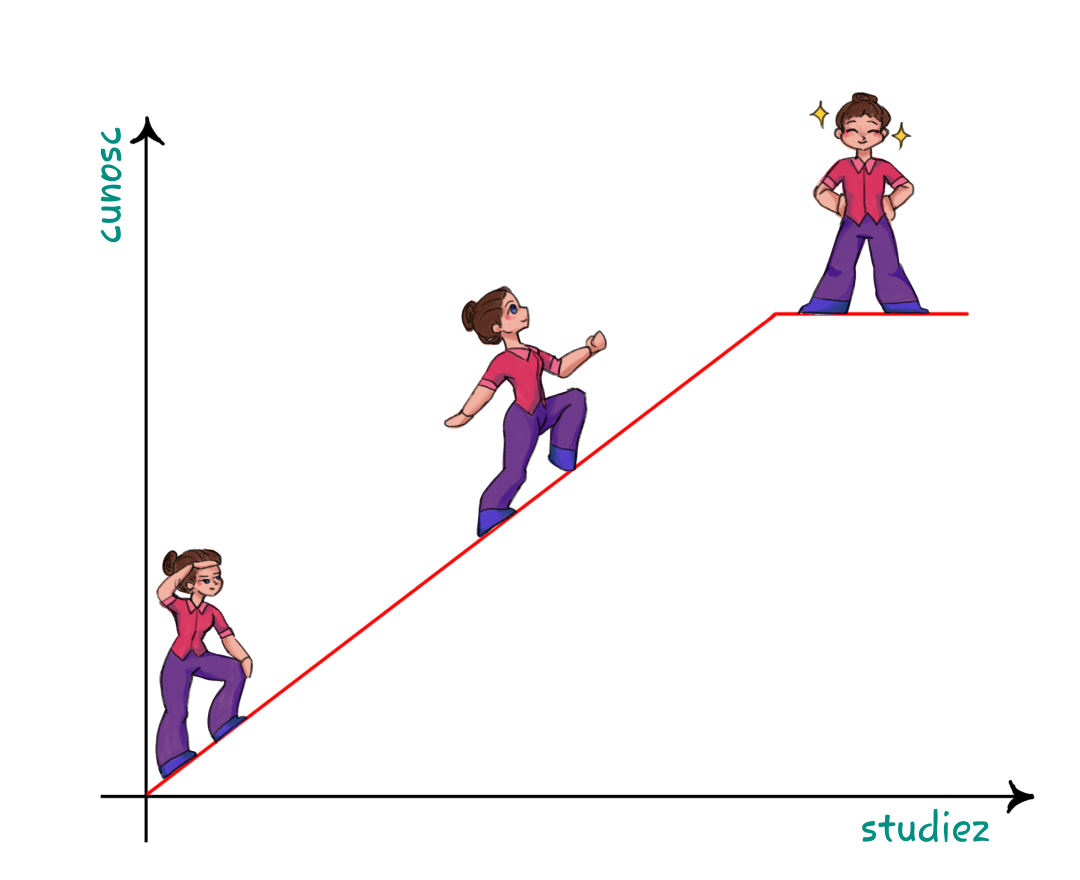
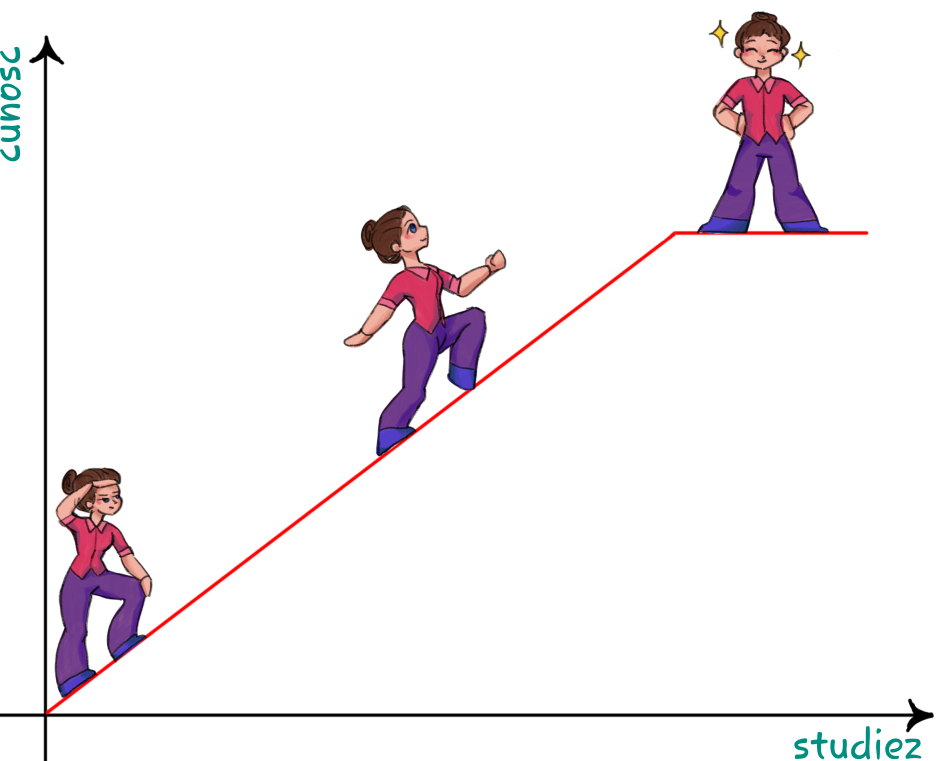
adăugat curs și pe pagina cu cursuri

diff --git a/content/ro/cursuri/_index.md b/content/ro/cursuri/_index.md
@@ -8,31 +8,44 @@ bookCollapseSection = "true"
 ![Courses](/images/courses.avif)
 
 # Cursuri personalizate
-Pentru cazurile când pur și simplu vrei să știi mai multe, îți oferim cursuri 
-adaptate cerințelor și nivelului tău de pregătire, pe care le ajustăm exact așa cum 
+Pentru cazurile când pur și simplu vrei să știi mai multe, îți oferim cursuri
+adaptate cerințelor și nivelului tău de pregătire, pe care le ajustăm exact așa cum
 ai nevoie ca să înțelegi ceea ce îți dorești.
 
 ## Cum funcționează?
-Una dintre valorile importante ale activității noastre este *personalizarea*: vrem să alcătuim 
-exact cursul care ți se potrivește. Fiecare capitol va fi adaptat cerințelor, așteptărilor 
-și nivelului cursanților, iar întreaga structură se poate modifica în colaborare cu voi, 
-astfel încât fiecare cursant să învețe cât mai eficient și să (vă) puteți răspunde la cât 
+Una dintre valorile importante ale activității noastre este *personalizarea*: vrem să alcătuim
+exact cursul care ți se potrivește. Fiecare capitol va fi adaptat cerințelor, așteptărilor
+și nivelului cursanților, iar întreaga structură se poate modifica în colaborare cu voi,
+astfel încât fiecare cursant să învețe cât mai eficient și să (vă) puteți răspunde la cât
 mai multe întrebări.
 
-Programul este flexibil, iar discuțiile și colaborările sunt încurajate, 
-(aproape) obligatorii. Pentru asta, vei avea acces gratuit la un grup de 
+Programul este flexibil, iar discuțiile și colaborările sunt încurajate,
+(aproape) obligatorii. Pentru asta, vei avea acces gratuit la un grup de
 WhatsApp, unde putem continua discuțiile și distribui materiale.
 
 ---
 
 ## Portofoliul curent
-Lucrăm intensiv la cursurile pe care ți le vom oferi începând cu toamna
-lui 2026, așa că urmărește pagina aceasta ca să afli noutățile.
 
-Ne poți scrie folosind una dintre variantele de [contact]({{< ref "contact.md" >}})
-dacă ai o propunere sau întrebări.
+### Matematică desenată
+Matematica este plină de formule, teoreme și calcule, dar multe dintre
+ele poți să le înțelegi și prin imagini.
 
-![WIP](/images/wip.png#center)
+În afară de „metoda grafică” pe care ai studiat-o în clasele primare,
+ilustrațiile au multe alte roluri, care te ajută să-ți fixezi mai bine
+inclusiv noțiuni abstracte.
+
+Nu trebuie să ai talent la desen, ci doar curiozitate și vei vedea
+cum ecuații și legi complicate capătă înțelesuri clare prin imagini.
+Mai mult, îți vei dezvolta și gândirea, astfel încât ori de câte ori
+înveți o lecție nouă, să te întrebi și cum o poți reprezenta în câteva
+desene.
+
+![Fata sus](/images/curs_comic/fata_sus.png#center)
+
+Accesează pagina cursului ca să afli mai multe și înscrie-te
+👉 [aici](https://poligon-edu.ro/cursuri/mate-comic).
+
 
 ---
 
@@ -46,28 +59,28 @@ un subiect, scrie-ne!
 </summary>
 
 <h3>Istoria și filosofia matematicii sau Mulțimea numerelor reale</h3>
-Am ales să ne concentrăm pe un obiect matematic pe cât de simplu în aparență, 
-pe atât de profund, dificil și cu o istorie fascinantă: <i>mulțimea numerelor reale</i>. Vom vorbi pe rând 
+Am ales să ne concentrăm pe un obiect matematic pe cât de simplu în aparență,
+pe atât de profund, dificil și cu o istorie fascinantă: <i>mulțimea numerelor reale</i>. Vom vorbi pe rând
 despre mulțimi, despre numere și vom răspunde la întrebarea <i>Ce face ca numere precum e, π sau să fie... reale?</i>
 
 Accesează pagina cursului [aici]({{< relref path="/cursuri/arhiva/istorie_mate.md" lang="ro" >}}).
 
 <h3>Știința din carte: Detalii matematice în literatură</h3>
-A citi literatură cu un ochi pentru matematica din ea înseamnă să 
-fii pregătit să te întâlnești cu spații multidimensionale, cu arbori 
+A citi literatură cu un ochi pentru matematica din ea înseamnă să
+fii pregătit să te întâlnești cu spații multidimensionale, cu arbori
 care ți se ramifică sub ochi.
 
-Pornim de la lucrări din literatura modernă și contemporană și te invităm 
+Pornim de la lucrări din literatura modernă și contemporană și te invităm
 la o descoperire a detaliilor matematice care întregesc spațiile și lumile din ele.
 
 Află mai multe pe [pagina cursului]({{< relref path="/cursuri/arhiva/literatura.md" lang="ro" >}}).
 
 <h3>Despre simetrie: estetică, matematică, științe ale naturii</h3>
-Simetria ne înconjoară, avem o înțelegere intuitivă a ei, încât ne este greu să 
-o definim riguros și ne surprinde să aflăm că este un concept de bază în matematică, 
+Simetria ne înconjoară, avem o înțelegere intuitivă a ei, încât ne este greu să
+o definim riguros și ne surprinde să aflăm că este un concept de bază în matematică,
 chimie, fizică și nu numai.
 
-Care este originea simetriei? Etimologia ne conduce la proprietăți metrice (măsurători) 
+Care este originea simetriei? Etimologia ne conduce la proprietăți metrice (măsurători)
 și totuși, astăzi o gândim mai degrabă calitativ decât cantitativ.
 
 Cum a ajuns să fie un concept de bază în științe, în artă și în filosofie?
@@ -75,34 +88,34 @@ Cum a ajuns să fie un concept de bază în științe, în artă și în filosof
 Detalii pe [pagina cursului]({{< relref path="cursuri/arhiva/simetrie.md" lang="ro" >}}).
 
 <h3>Muzica: limbaj, matematică, fizică</h3>
-Prin faptul că are un mesaj și ne vorbește fiecăruia, muzica este un limbaj. 
-Este, însă, și cel mai abstract: cuvintele sunt scrise cu semne pe care puțini 
+Prin faptul că are un mesaj și ne vorbește fiecăruia, muzica este un limbaj.
+Este, însă, și cel mai abstract: cuvintele sunt scrise cu semne pe care puțini
 le înțeleg, iar mesajul nu este mereu transparent.
 
-Ordinea și regulile care alcătuiesc muzica sunt, în bună măsură, matematice: 
+Ordinea și regulile care alcătuiesc muzica sunt, în bună măsură, matematice:
 de la structura gamelor la cea a ritmului și poliritmilor.
 
-Iar nu în ultimul rând, muzica ne vorbește prin sunete, vibrații ale aerului, 
+Iar nu în ultimul rând, muzica ne vorbește prin sunete, vibrații ale aerului,
 guvernate de legi fizice binecunoscute.
 
-Unde și cum se întâlnesc toate acestea? Ce putem învăța de la Oliver Sacks și 
-Leonard Bernstein despre rolul muzicii în viețile noastre? Ce înseamnă 
+Unde și cum se întâlnesc toate acestea? Ce putem învăța de la Oliver Sacks și
+Leonard Bernstein despre rolul muzicii în viețile noastre? Ce înseamnă
 <i>muzică generativă</i> sau <i>ritmuri euclidiene</i>?
 
 Află mai multe pe [pagina cursului]({{< relref path="cursuri/arhiva/muzica.md" lang="ro" >}}).
 
 <h3>Gamification și concepte de game design în educație</h3>
-Utilizarea uneltelor digitale, dar și dorința de a învăța prin descoperire, 
-într-un mediu relaxat și care să distreze au condus la o intersecție tot mai 
-mare între jocuri și educație. Este vorba atât despre jocurile video, 
+Utilizarea uneltelor digitale, dar și dorința de a învăța prin descoperire,
+într-un mediu relaxat și care să distreze au condus la o intersecție tot mai
+mare între jocuri și educație. Este vorba atât despre jocurile video,
 cât și concepte clasice, teoretice de <i>teoria jocurilor</i> din matematică și economie.
 
-Îți propun o experiență de tipul <i>choose your own adventure</i>, 
+Îți propun o experiență de tipul <i>choose your own adventure</i>,
 împreună cu o doză de <i>choices matter</i> și chiar <i>roleplay</i>.
 
-Dacă ești elev, student, profesor, gamer sau pur și simplu pasionat de știință, dar și 
-de tehnologia și industria jocurilor video, vino să alcătuim împreună acest curs, 
-în care să vedem cât de ajutătoare pot fi concepte precum cele de mai sus 
+Dacă ești elev, student, profesor, gamer sau pur și simplu pasionat de știință, dar și
+de tehnologia și industria jocurilor video, vino să alcătuim împreună acest curs,
+în care să vedem cât de ajutătoare pot fi concepte precum cele de mai sus
 în aproape orice proces de învățare.
 
 Accesează [pagina cursului]({{< relref path="cursuri/arhiva/gamification.md" lang="ro" >}}), află mai multe și înscrie-te!
@@ -110,13 +123,13 @@ Accesează [pagina cursului]({{< relref path="cursuri/arhiva/gamification.md" la
 <h3>Level up!</h3>
 Transformă pasiunea pentru jocuri într-o experiență de socializare și învățare!
 
-Jocurile, sub toate formele lor, oferă mult mai mult decât distracție, ochi obosiți 
-și ore care zboară. Strategie, planificare, creativitate, imaginație — toate sunt puse 
-la încercare în provocările pe care le înfrunți. Iar când ai și un grup cu care să le 
+Jocurile, sub toate formele lor, oferă mult mai mult decât distracție, ochi obosiți
+și ore care zboară. Strategie, planificare, creativitate, imaginație — toate sunt puse
+la încercare în provocările pe care le înfrunți. Iar când ai și un grup cu care să le
 faci față, experiența se schimbă.
 
-Îți propunem un mediu în care să te dezvolți ca gamer, dar și să înveți multe alte lucruri. 
-Ne vom juca, vom discuta strategiile și poveștile spuse de jocuri video și board games, 
+Îți propunem un mediu în care să te dezvolți ca gamer, dar și să înveți multe alte lucruri.
+Ne vom juca, vom discuta strategiile și poveștile spuse de jocuri video și board games,
 într-un cadru relaxat, dar și competitiv.
 
 Dacă ai între 13 și 17 ani și locuiești în București, înscrie-te în clubul nostru!
